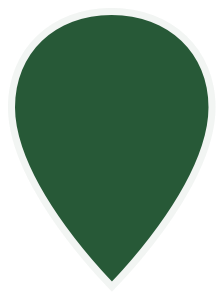
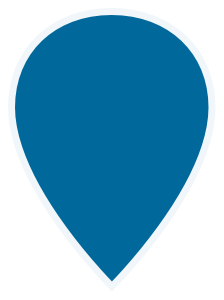
icoontjes blauw gemaakt

diff --git a/public/css/initiatieven-kaart-public.css b/public/css/initiatieven-kaart-public.css
@@ -1,28 +1,5 @@
 /* start icon test thijs */
 
-/* Generated by Glyphter (http://www.glyphter.com) on  Thu Oct 08 2020*/
-@font-face {
-    font-family: 'led test';
-    src: url('../fonts/led-test.eot');
-    src: url('../fonts/led-test.eot?#iefix') format('embedded-opentype'),
-    url('../fonts/led-test.woff') format('woff'),
-    url('../fonts/led-test.ttf') format('truetype'),
-    url('../fonts/led-test.svg#led-test') format('svg');
-    font-weight: normal;
-    font-style: normal;
-}
-
-[class*='led-icon-']:before {
-    display: inline-block;
-    /* font-family: 'led test'; */
-    font-style: normal;
-    font-weight: normal;
-    line-height: 1;
-    -webkit-font-smoothing: antialiased;
-    -moz-osx-font-smoothing: grayscale
-}
-
-/* TODO: other font?  */
 
 /*
  De lijst met classes moet overeenkomen met de opties voor term van
@@ -61,7 +38,7 @@
 }
 
 .clusterIcon {
-    background-color: #275937;
+    background-color: #01689b;
     color: #fff;
     border-radius: 25%;
 }
